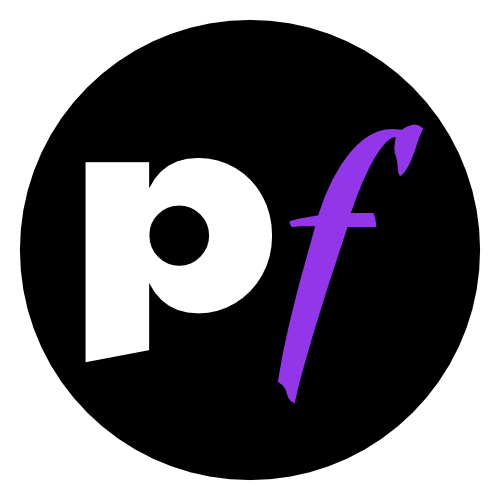
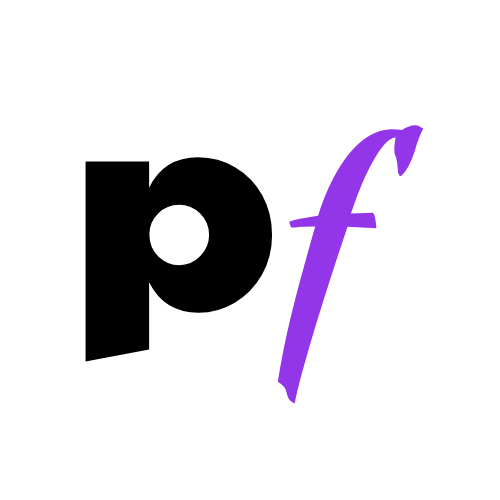
fix(brand): map the isotypes to their own themes with transparent corners

diff --git a/frontend/src/components/brand/logo.tsx b/frontend/src/components/brand/logo.tsx
@@ -16,8 +16,8 @@ const BRAND_MARKS = [
   },
 ] as const;
 
-// Approved PeopleFlow isotypes (500x500) copied to public/brand: the transparent
-// black «pf» for light surfaces, the black disc with a white «p» for dark ones.
+// Approved PeopleFlow isotypes (500x500, transparent corners) copied to
+// public/brand: Logo_small_Light for the light theme, Logo_smal_Dark for the dark one.
 const BRAND_ISOTYPES = [
   { src: "/brand/peopleflow-mark-light.png", schemeClass: "brand-mark-light" },
   { src: "/brand/peopleflow-mark-dark.png", schemeClass: "brand-mark-dark" },

diff --git a/odd/tasks/ui-polish.md b/odd/tasks/ui-polish.md
@@ -28,3 +28,4 @@ Branch feat/ui-polish stacked on feat/pipeline-discard-ui (c5886f1). Rules: docs
   - Suggested reviewable commit units (no commits made): shared stage/menu presentation + CSS/tests; sheet + affected sheet/timeline test hunks; board/published header + remaining behavior tests; disposition polish + rules + this log. Keep each unit ≤400 changed lines by splitting test hunks with the behavior they protect.
 - L7. Parent: committed the v0 port (35d9813 tints/menu, 845b91a sheet, 8a6777e board/header/dialog), full-height columns (63c56b1, rules §14.4) and collapsed sidebar (3779f07, rules §14.5; PeopleFlowMark «P» provisional until an isotype exists), dashboard test follow-up 8dc5915. Full suite: only known timeouts (benefits-section, local-draft-form). Guide 54-56, queue item 7. Not verified in a browser.
 - L8. User provided the isotypes in peopleflow-vacantes/Logos (Logo_small_Light.png = black disc + white «p»; Logo_smal_Dark.png = black «p» on transparent). Mapped by visibility: transparent black mark for the light theme (public/brand/peopleflow-mark-light.png), disc for the dark theme (peopleflow-mark-dark.png); PeopleFlowMark renders both with brand-mark-light/dark classes, decorative alt, accessible name on the container. Brand-image tests scoped to the wordmark container. src/components + src/app: 84 files / 1,020 tests, tsc 0.
+- L9. User correction: «los pusiste al revez. el dark va en el modo dark y el light en el modo light, pero tambien en el modo dark, le pusiste un fondo blanco». Cause: the parent mapped the files by guessed visibility instead of their names, and the first copy of Logo_small_Light.png had opaque white corners (white square in dark mode). Re-copied the current exports (both with transparent corners): Logo_small_Light → peopleflow-mark-light.png (light theme), Logo_smal_Dark → peopleflow-mark-dark.png (dark theme).

diff --git a/docs/frontend-ui-design-rules.md b/docs/frontend-ui-design-rules.md
@@ -913,8 +913,8 @@ Referencia: `docs/design/v0/reference-lqiGtbQJqJc/` y capturas de L5 en
   centrada. El wordmark queda para el estado expandido y el drawer móvil.
 - La marca compacta es un único componente (`PeopleFlowMark`) con el nombre accesible
   «PeopleFlow» que muestra el isotipo aprobado, uno por tema: `peopleflow-mark-light.png`
-  («pf» negra sin fondo) en tema claro y `peopleflow-mark-dark.png` (disco negro con «p»
-  blanca) en tema oscuro, a 32px dentro del cuadrado de 40px. Las imágenes son
+  (disco negro con «p» blanca) en tema claro y `peopleflow-mark-dark.png` (disco blanco
+  con «p» negra) en tema oscuro, ambos con las esquinas transparentes, a 32px dentro del cuadrado de 40px. Las imágenes son
   decorativas (`alt=""`); el nombre lo da el contenedor.
 - Todos los botones del riel (navegación, acción primaria y cuenta) comparten un cuadrado
   de 40px centrado, con el ícono o el avatar centrado; hover, selección y foco usan esa
